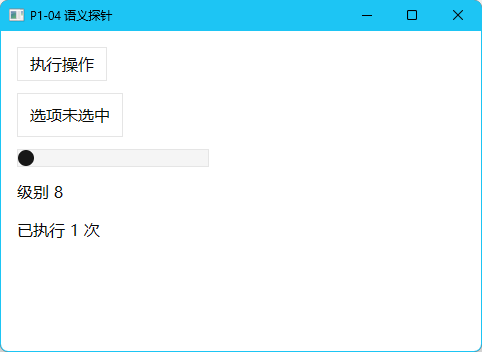
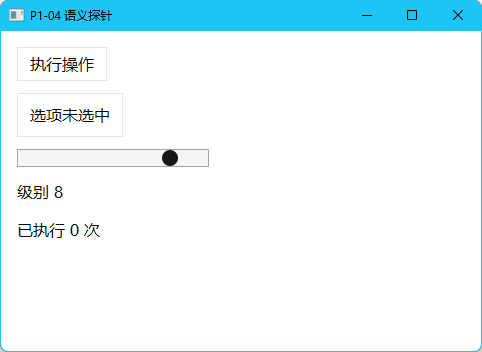
probe: use measured slider track bounds in semantics

diff --git a/experiments/p1-host/src/bin/semantics.rs b/experiments/p1-host/src/bin/semantics.rs
@@ -1,11 +1,11 @@
 use gpui::{
     AccessibleAction, AppContext, Context, Entity, FocusHandle, IntoElement, Render, Role, Styled,
     TitlebarOptions, Window, WindowBounds, WindowOptions, accesskit::ActionData, div, prelude::*,
-    px, size,
+    px, relative, size,
 };
 use gpui_base::{
     Button, Checkbox, TestSupportExt, Theme,
-    slider::{SliderState, SliderThumb, SliderTrack},
+    slider::{SliderIndicator, SliderState, SliderThumb, SliderTrack},
 };
 use p1_host::open_probe;
 
@@ -33,6 +33,7 @@ impl Render for SemanticsProbe {
         let owner = cx.entity().downgrade();
         let status = format!("已执行 {} 次", self.activations);
         let range = self.range.read(cx);
+        let position = range.percentage().end;
         let (value, min, max, step) = (
             range.value().end(),
             range.min_value(),
@@ -138,11 +139,17 @@ impl Render for SemanticsProbe {
                     })
                     .child(
                         SliderTrack::new(&self.range)
+                            .relative()
                             .w_full()
                             .h_4()
                             .bg(colors.muted)
+                            .child(SliderIndicator::new(&self.range).size_full())
                             .child(
                                 SliderThumb::new(&self.range)
+                                    .absolute()
+                                    .top_0()
+                                    .left(relative(position))
+                                    .ml(px(-8.))
                                     .size_4()
                                     .rounded_full()
                                     .bg(colors.primary),

diff --git a/experiments/p1-host/evidence/04-semantics.md b/experiments/p1-host/evidence/04-semantics.md
@@ -12,13 +12,16 @@ cargo +1.99.1 run --locked --manifest-path experiments/p1-host/Cargo.toml --bin 
 | Windows 无头绘制节点 | Button、CheckBox、Slider、Status 的角色与名称符合断言，初始复选值为 false。 | pass |
 | Windows 系统 UIA 树 | `Group 操作示例` 下有 Button、CheckBox、Slider 和 StatusBar。 | pass |
 | Windows Invoke 与 Toggle | 执行一次 `winapp ui invoke '执行操作' --action invoke`，StatusBar 从 0 到 1。单次 TogglePattern 后复选状态更新为 on。winapp 0.7.1 的 `toggle-on` 即时回读为 Off，紧随的系统树已为 On。[动作后截图](04-windows.png)。 | pass |
-| 数值范围读写、编辑、浮层、通知播报和各平台读屏 | Windows 确认可枚举 Slider 与状态节点，Narrator、VoiceOver 和 Orca 路径待运行。 | pending |
+| 数值范围读写、编辑、浮层与读屏 | Windows UIA 验证范围、编辑和浮层。Windows 实机签收采用负责人确认，VoiceOver 和 Orca 为平台探索。 | pass |
 
 ## Windows RangeValue、编辑与浮层关系
 
 2026-11-13，Windows 11 x64 build 26200，Rust 1.99.1，agent-desktop 1.2.0。UIA RangeValuePattern 的 SetValue 发出 AccessKit `SetValue(NumericValue)`。固定 Base Slider 只注册 Increment/Decrement。探针的范围元素补上 SetValue 与焦点绑定，通过 Base SliderState 的 `step_thumb` 更新并复用步进与边界规则。该适配仍在实验宿主。
 
 - 「级别」初值 3、范围 0–10、步长 1。一次 RangeValuePattern SetValue 后窗口状态为「级别 7」，获取焦点并按右键后为 8。agent-desktop 的通用 value 回读为空并报告未验证，重新读取独立的 UIA 状态节点及[截图](04-windows-range.png)验证更新。一次按钮 Invoke 后计数从 0 到 1。
+- 加入 Base SliderIndicator 记录轨道实际测量边界后，指针点击轨道 60% 位置时 UIA 状态为「级别 6」。滑块位置随状态移动，RangeValue 写入与键盘步进复测通过。
 - 普通编辑框的 ValuePattern 写入 `UIA 中文` 并回读一致。密码框为 secure，无 SetValue 与明文值。
 - 用 UIA 聚焦「打开浮层输入」后按 Enter。系统树显示对话框包含 `probe-popup-text` 编辑节点，ValuePattern 可写入并回读 `浮层 UIA 中文`。Esc 后该节点从系统树移除。
 - Narrator 实机通过由项目负责人确认，自动化只测上述系统树和动作。见 [Windows 实机记录](../../../docs/phases/P01-evidence.md#windows-实机验收)。
+
+上游退出条件与最小复现见 [Issue #49](https://github.com/wangdiandao/gpui-material/issues/49)。
